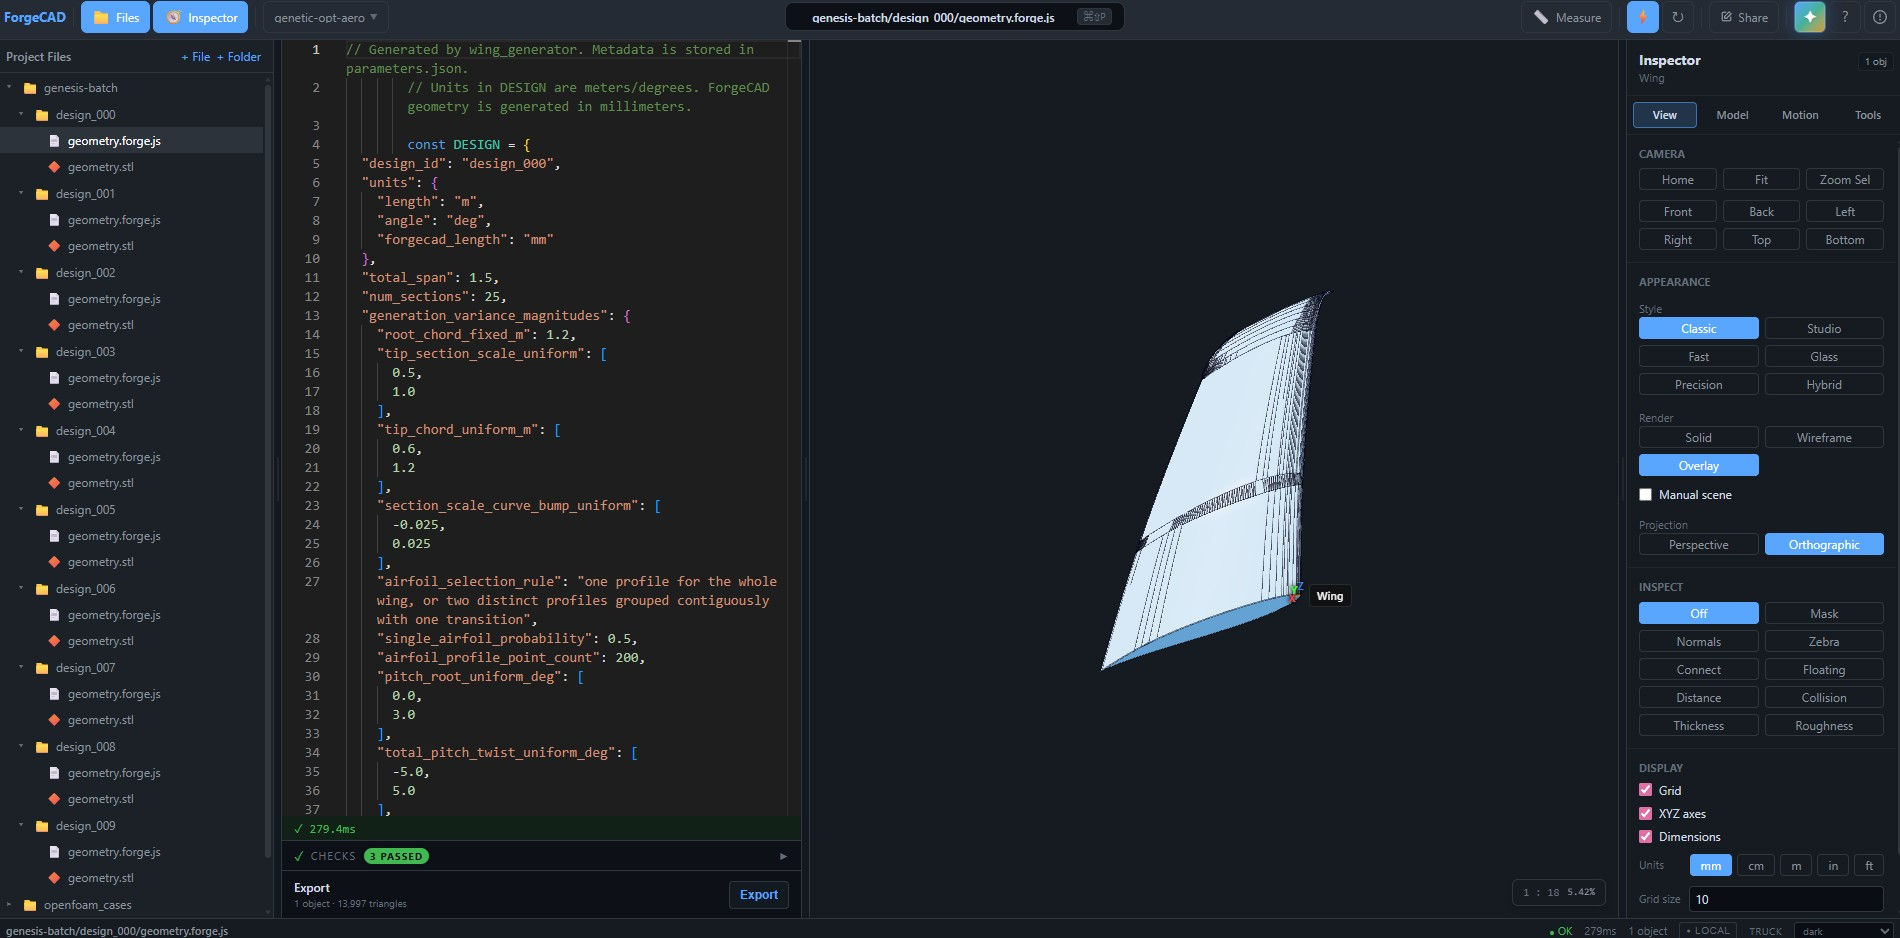
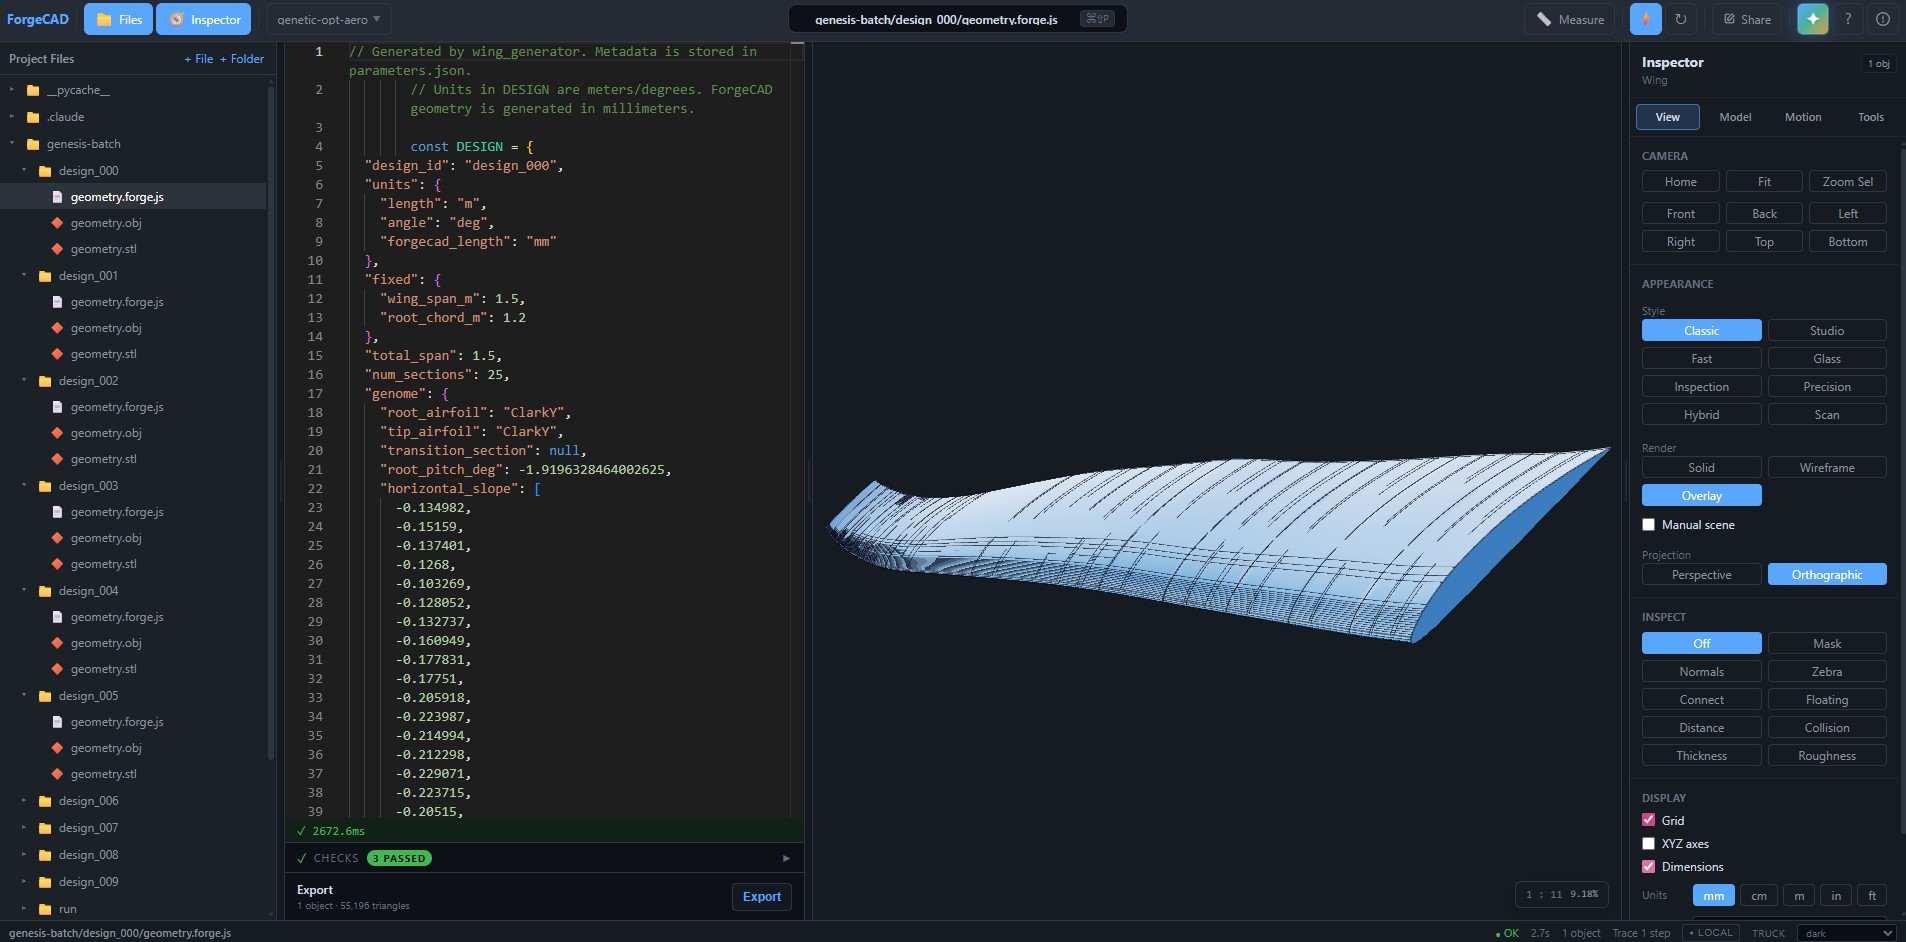
update GAO

diff --git a/styles.css b/styles.css
@@ -2320,6 +2320,253 @@ body.modal-open {
   pointer-events: none;
 }
 
+/* ── Flowchart Panel Styles ── */
+.flowchart-panel {
+  position: absolute;
+  inset: 14px;
+  z-index: 3;
+  display: none;
+  padding: 16px;
+  overflow: hidden auto;
+  border: 1px solid rgba(244, 182, 194, 0.16);
+  border-radius: 4px;
+  background:
+    linear-gradient(180deg, rgba(13, 19, 33, 0.82), rgba(7, 11, 20, 0.68)),
+    radial-gradient(circle at 20% 0%, rgba(244, 182, 194, 0.1), transparent 42%);
+  box-shadow: inset 0 0 0 1px rgba(249, 250, 251, 0.02), 0 0 34px rgba(244, 182, 194, 0.08);
+  backdrop-filter: blur(18px);
+}
+
+.modal-visual-frame.flowchart-mode {
+  background:
+    radial-gradient(circle at 28% 12%, rgba(244, 182, 194, 0.1), transparent 34%),
+    radial-gradient(circle at 78% 82%, rgba(216, 180, 248, 0.07), transparent 38%),
+    linear-gradient(180deg, rgba(13, 19, 33, 0.18), rgba(7, 11, 20, 0.4));
+}
+
+.modal-visual-frame.flowchart-mode #modalScene,
+.modal-visual-frame.flowchart-mode .modal-hud-ring,
+.modal-visual-frame.flowchart-mode .modal-scanline,
+.modal-visual-frame.flowchart-mode .modal-pin,
+.modal-visual-frame.flowchart-mode .modal-hero-label {
+  display: none;
+}
+
+.modal-visual-frame.flowchart-mode .flowchart-panel {
+  display: block;
+}
+
+.flowchart-header {
+  margin-bottom: 20px;
+  padding-bottom: 12px;
+  border-bottom: 1px solid rgba(148, 163, 184, 0.08);
+}
+
+.flowchart-header span {
+  display: block;
+  color: var(--muted);
+  font-family: "JetBrains Mono", ui-monospace, monospace;
+  font-size: 0.58rem;
+  font-weight: 700;
+  letter-spacing: 0.08em;
+  text-transform: uppercase;
+}
+
+.flowchart-header h3 {
+  margin: 4px 0 0;
+  color: var(--white);
+  font-size: 1.05rem;
+}
+
+.flowchart-nodes {
+  position: relative;
+  display: flex;
+  flex-direction: column;
+  gap: 16px;
+  padding-left: 20px;
+}
+
+.flowchart-nodes::before {
+  position: absolute;
+  top: 8px;
+  bottom: 24px;
+  left: 5px;
+  width: 1px;
+  content: "";
+  background: linear-gradient(180deg, var(--pink), rgba(244, 182, 194, 0.2));
+  box-shadow: 0 0 8px rgba(244, 182, 194, 0.15);
+}
+
+.flowchart-node-card {
+  position: relative;
+  opacity: 0;
+  transform: translateY(10px);
+  animation: timelineReveal 560ms cubic-bezier(0.22, 1, 0.36, 1) forwards;
+  animation-delay: calc(100ms * var(--node-index));
+}
+
+.node-indicator {
+  position: absolute;
+  top: 15px;
+  left: -20px;
+  width: 11px;
+  height: 11px;
+  transform: translate(-50%, -50%);
+  display: flex;
+  align-items: center;
+  justify-content: center;
+}
+
+.node-dot {
+  width: 7px;
+  height: 7px;
+  border-radius: 50%;
+  background: rgba(148, 163, 184, 0.4);
+  border: 1px solid rgba(7, 11, 20, 0.8);
+  z-index: 2;
+  transition: background-color 200ms ease, box-shadow 200ms ease;
+}
+
+.flowchart-node-card.is-active .node-dot {
+  background: var(--pink);
+  box-shadow: 0 0 10px var(--pink);
+}
+
+.node-pulse {
+  position: absolute;
+  width: 17px;
+  height: 17px;
+  border-radius: 50%;
+  background: rgba(244, 182, 194, 0.25);
+  animation: nodeActivePulse 1.8s ease-in-out infinite;
+  z-index: 1;
+}
+
+@keyframes nodeActivePulse {
+  0% {
+    transform: scale(0.6);
+    opacity: 0.8;
+  }
+  100% {
+    transform: scale(2);
+    opacity: 0;
+  }
+}
+
+.node-content {
+  padding: 12px 14px;
+  border: 1px solid rgba(148, 163, 184, 0.08);
+  border-radius: 4px;
+  background: rgba(13, 19, 33, 0.45);
+  transition: border-color 200ms ease, box-shadow 200ms ease, background 200ms ease;
+}
+
+.flowchart-node-card.is-active .node-content {
+  border-color: rgba(244, 182, 194, 0.45);
+  background: linear-gradient(145deg, rgba(244, 182, 194, 0.08), rgba(13, 19, 33, 0.65));
+  box-shadow: 
+    0 0 24px rgba(244, 182, 194, 0.08),
+    inset 0 0 12px rgba(244, 182, 194, 0.03);
+  animation: activeCardGlow 3s ease-in-out infinite alternate;
+}
+
+@keyframes activeCardGlow {
+  0% {
+    border-color: rgba(244, 182, 194, 0.3);
+    box-shadow: 0 0 16px rgba(244, 182, 194, 0.04);
+  }
+  100% {
+    border-color: rgba(244, 182, 194, 0.55);
+    box-shadow: 0 0 28px rgba(244, 182, 194, 0.12);
+  }
+}
+
+.node-badge-row {
+  display: flex;
+  align-items: center;
+  gap: 8px;
+  margin-bottom: 6px;
+}
+
+.node-status {
+  display: inline-flex;
+  padding: 2px 6px;
+  border: 1px solid rgba(148, 163, 184, 0.15);
+  border-radius: 3px;
+  color: var(--gray);
+  font-family: "JetBrains Mono", ui-monospace, monospace;
+  font-size: 0.52rem;
+  font-weight: 700;
+  letter-spacing: 0.04em;
+  text-transform: uppercase;
+}
+
+.flowchart-node-card.is-active .node-status {
+  border-color: rgba(244, 182, 194, 0.4);
+  color: var(--pink);
+  background: rgba(244, 182, 194, 0.06);
+}
+
+.node-tag {
+  display: inline-flex;
+  padding: 2px 6px;
+  border: 1px solid rgba(216, 180, 248, 0.22);
+  border-radius: 3px;
+  color: var(--lavender);
+  font-family: "JetBrains Mono", ui-monospace, monospace;
+  font-size: 0.52rem;
+  font-weight: 500;
+  text-transform: uppercase;
+}
+
+.node-content h4 {
+  margin: 0 0 4px;
+  color: var(--white);
+  font-size: 0.86rem;
+  line-height: 1.2;
+}
+
+.flowchart-node-card.is-active .node-content h4 {
+  color: var(--rose);
+  text-shadow: 0 0 10px rgba(244, 182, 194, 0.15);
+}
+
+.node-content p {
+  margin: 0;
+  color: #b9c8dc;
+  font-size: 0.72rem;
+  line-height: 1.4;
+}
+
+.node-subtext {
+  margin-top: 8px;
+  padding-top: 8px;
+  border-top: 1px solid rgba(148, 163, 184, 0.06);
+  color: var(--pink);
+  font-family: "JetBrains Mono", ui-monospace, monospace;
+  font-size: 0.64rem;
+  font-weight: 700;
+  display: flex;
+  align-items: center;
+  gap: 6px;
+}
+
+.node-subtext::before {
+  content: "⚡";
+  font-size: 0.68rem;
+  animation: subtextPulse 1s ease-in-out infinite alternate;
+}
+
+@keyframes subtextPulse {
+  0% {
+    opacity: 0.5;
+  }
+  100% {
+    opacity: 1;
+    transform: scale(1.1);
+  }
+}
+
 .propulsion-metrics,
 .propulsion-readouts {
   display: grid;

diff --git a/script.js b/script.js
@@ -612,8 +612,53 @@ const projectData = {
     telemetry: [
       { label: "STATUS", value: "Building" },
     ],
-    media: [],
+    media: [
+      {
+        type: "image",
+        src: "./assets/projects/genetic-aerodynamic-optimisation/genesis-batch-generated-models-population.jpg",
+        alt: "Genesis Batch Population Modelling in ForgeCAD",
+        description: "Initial seed population generation of parameterized wing structures modeled inside ForgeCAD, presenting randomized variations of chord lengths, sweeps, and spanwise curvatures."
+      },
+      {
+        type: "image",
+        src: "./assets/projects/genetic-aerodynamic-optimisation/genesis-batch-population.jpg",
+        alt: "10-Population Wing Variants Rendering",
+        description: "Visualisation of the 10-population wing designs generated concurrently inside the parametric CAD pipeline, demonstrating diverse geometric configurations before export to OpenFOAM for aerodynamic evaluation."
+      }
+    ],
     tags: ["Evolutionary Models", "Aerodynamics", "Optimization"],
+    flowchart: {
+      steps: [
+        {
+          active: false,
+          title: "Genesis Batch Generation",
+          description: "Define wing spline parameters, constraint bounds, and generate the baseline population using a randomized seed.",
+          tag: "ForgeCAD",
+          status: "COMPLETED"
+        },
+        {
+          active: true,
+          title: "Aerodynamic Simulation (CFD)",
+          description: "Execute automated mesh generation and parallelized RANS CFD simulations in ground effect in OpenFOAM.",
+          tag: "OpenFOAM",
+          subtext: "CURRENTLY BUILDING: Establishing consistent simulation boundaries and meshing parameters for the first batch CFD runs."
+        },
+        {
+          active: false,
+          title: "Survivor Selection & Breeding",
+          description: "Take the top 20% survivors and breed them with crossover/mutation operators to obtain the next generation.",
+          tag: "Genetic Core",
+          status: "UPCOMING"
+        },
+        {
+          active: false,
+          title: "Iterative Convergence Loop",
+          description: "Repeat the cycle recursively until aerodynamic efficiency converges to the optimal curved profile.",
+          tag: "Convergence",
+          status: "UPCOMING"
+        }
+      ]
+    }
   },
   "airframe-opt": {
     label: "STRUCTURE",
@@ -1779,11 +1824,13 @@ function openModal(projectId) {
   const visualFrame = document.getElementById("modal-visual-frame");
   const flightPanel = document.getElementById("flight-test-panel");
   const propulsionPanel = document.getElementById("propulsion-telemetry-panel");
+  const flowchartPanel = document.getElementById("flowchart-panel");
   visualFrame.classList.toggle("timeline-mode", Boolean(data.flightTimeline));
   visualFrame.classList.toggle("propulsion-mode", Boolean(data.propulsionDashboard));
+  visualFrame.classList.toggle("flowchart-mode", Boolean(data.flowchart));
   visualFrame.classList.toggle("uav-airframe-mode", projectId === "airframe-opt");
   visualFrame.classList.toggle("fwish-model-mode", projectId === "fwish-gev");
-  visualFrame.classList.toggle("wip-rings-mode", projectId === "wing-opt");
+  visualFrame.classList.toggle("wip-rings-mode", projectId === "wing-opt" && !data.flowchart);
 
   // Populate mission pins
   const pinTop = document.getElementById("modal-pin-top");
@@ -1929,6 +1976,46 @@ function openModal(projectId) {
     }
   }
 
+  if (flowchartPanel) {
+    if (data.flowchart) {
+      flowchartPanel.setAttribute("aria-hidden", "false");
+      flowchartPanel.innerHTML = `
+        <div class="flowchart-header">
+          <span>PROJECT WORKFLOW</span>
+          <h3>Genetic Aerodynamic Optimisation</h3>
+        </div>
+        <div class="flowchart-nodes">
+          ${data.flowchart.steps
+            .map((step, index) => {
+              const isActive = step.active ? "is-active" : "";
+              const statusLabel = step.active ? "CURRENT STAGE" : step.status || "UPCOMING";
+              return `
+                <div class="flowchart-node-card ${isActive}" style="--node-index: ${index}">
+                  <div class="node-indicator">
+                    <span class="node-dot"></span>
+                    ${step.active ? '<span class="node-pulse"></span>' : ""}
+                  </div>
+                  <div class="node-content">
+                    <div class="node-badge-row">
+                      <span class="node-status">${statusLabel}</span>
+                      ${step.tag ? `<span class="node-tag">${step.tag}</span>` : ""}
+                    </div>
+                    <h4>${step.title}</h4>
+                    <p>${step.description}</p>
+                    ${step.subtext ? `<div class="node-subtext">${step.subtext}</div>` : ""}
+                  </div>
+                </div>
+              `;
+            })
+            .join("")}
+        </div>
+      `;
+    } else {
+      flowchartPanel.setAttribute("aria-hidden", "true");
+      flowchartPanel.innerHTML = "";
+    }
+  }
+
   // Show modal
   document.body.classList.add("modal-open");
   overlay.classList.add("active");
@@ -1955,6 +2042,7 @@ function closeModal() {
     visualFrame.classList.remove("uav-airframe-mode");
     visualFrame.classList.remove("fwish-model-mode");
     visualFrame.classList.remove("wip-rings-mode");
+    visualFrame.classList.remove("flowchart-mode");
   }
   const flightPanel = document.getElementById("flight-test-panel");
   if (flightPanel) {
@@ -1965,6 +2053,11 @@ function closeModal() {
   if (propulsionPanel) {
     propulsionPanel.setAttribute("aria-hidden", "true");
     propulsionPanel.innerHTML = "";
+  }
+  const flowchartPanel = document.getElementById("flowchart-panel");
+  if (flowchartPanel) {
+    flowchartPanel.setAttribute("aria-hidden", "true");
+    flowchartPanel.innerHTML = "";
   }
   cleanupModalScene();
 }

diff --git a/index.html b/index.html
@@ -303,6 +303,7 @@
         <canvas id="modalScene"></canvas>
         <div class="flight-test-panel" id="flight-test-panel" aria-hidden="true"></div>
         <div class="propulsion-telemetry-panel" id="propulsion-telemetry-panel" aria-hidden="true"></div>
+        <div class="flowchart-panel" id="flowchart-panel" aria-hidden="true"></div>
         <div class="modal-hud-ring modal-ring-a"></div>
         <div class="modal-hud-ring modal-ring-b"></div>
         <div class="modal-scanline"></div>
